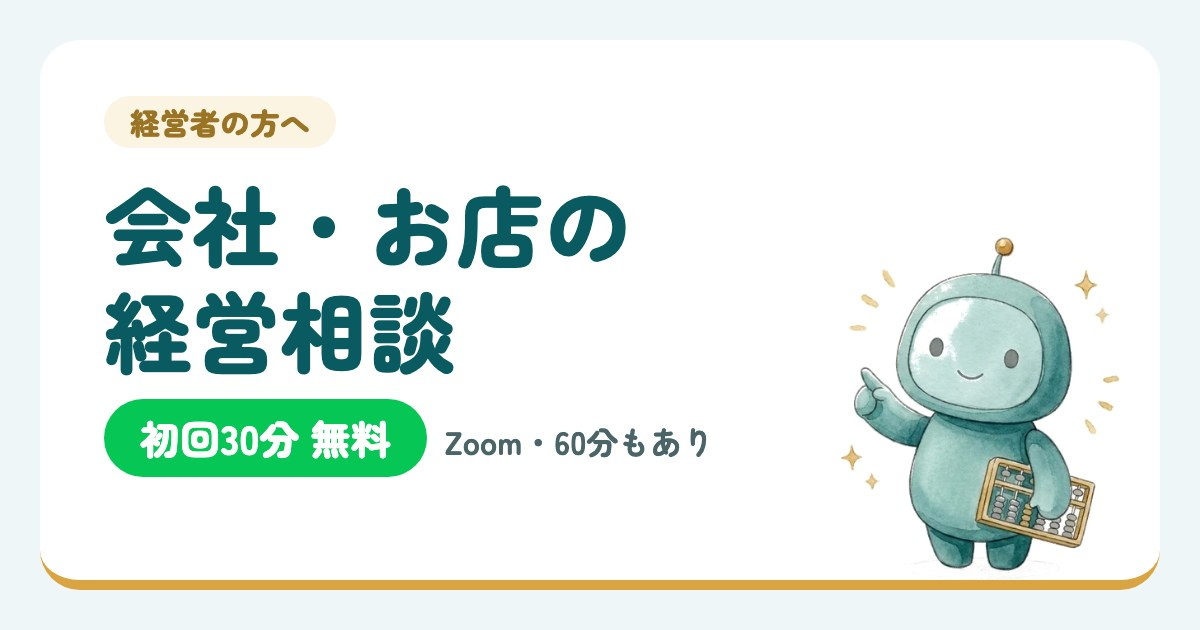
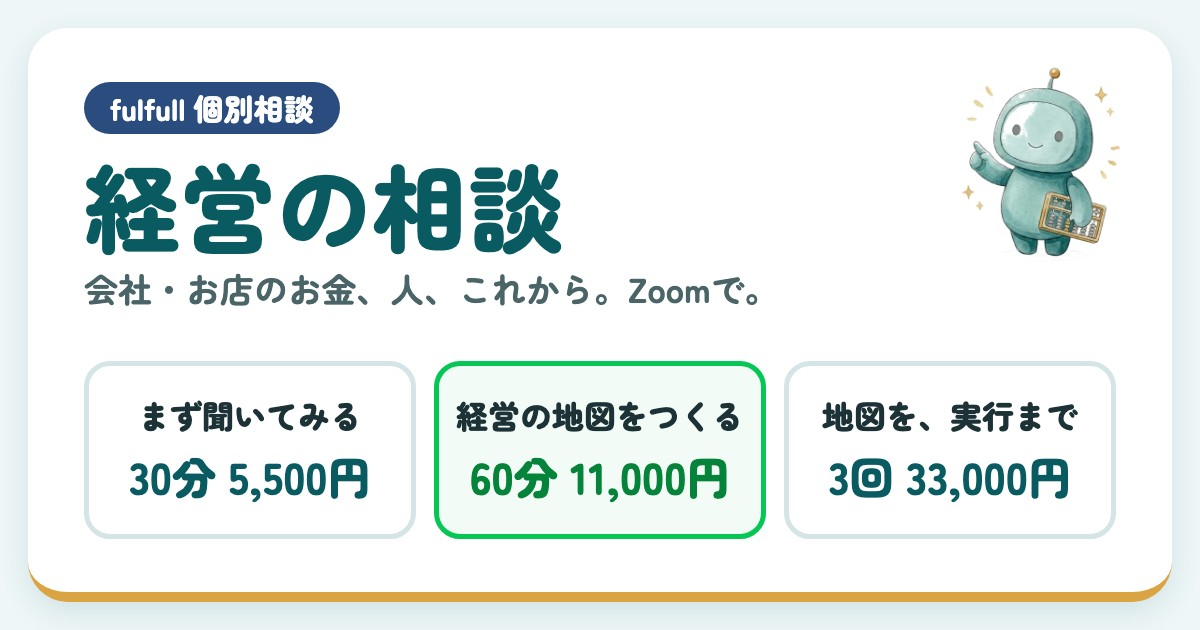
相談の入口を3つのプランに（まず聞いてみる・地図をつくる・実行まで）＋森川指名・中継OKリストに新リマインダ6本

Changed region(s): [[0.0308, 0.0905, 0.9867, 0.9651]]

diff --git a/soudan/index.html b/soudan/index.html
@@ -3,10 +3,10 @@
 <head>
 <meta charset="utf-8">
 <meta name="viewport" content="width=device-width,initial-scale=1">
-<title>森川に、お金の相談｜fulfull</title>
-<meta name="description" content="家計・老後・NISAの相談。初回30分は無料、2回目からは30分5,500円・60分11,000円。Zoomで、顔出しなしでも大丈夫です。">
-<meta property="og:title" content="森川に、お金の相談｜初回30分は無料">
-<meta property="og:description" content="家計・老後・NISA。Zoomで、顔出しなしでも大丈夫です。">
+<title>お金の相談｜fulfull</title>
+<meta name="description" content="家計・老後・NISAの相談。30分5,500円から。60分で「お金の地図」を1枚にまとめてお渡しします。Zoomで、顔出しなしでも大丈夫です。">
+<meta property="og:title" content="お金の相談｜3つのプランから選べます">
+<meta property="og:description" content="家計・老後・NISA。60分で「お金の地図」を1枚に。Zoomで、顔出しなしでも大丈夫です。">
 <meta property="og:image" content="https://mm738966m-boop.github.io/okane-benkyokai/soudan/ogp.jpg">
 <meta property="og:type" content="website">
 <meta name="twitter:card" content="summary_large_image">
@@ -45,52 +45,61 @@ body{margin:0;background:var(--soft);font-family:"Zen Maru Gothic","Hiragino Mar
 .note ul{margin:0;padding-left:1.2em}
 .foot{text-align:center;font-size:14px;color:var(--ink2);margin-top:26px}
 .foot a{color:var(--deep)}
+.plan .meta{display:inline-block;font-size:15px;font-weight:900;color:var(--deep);background:var(--soft);border-radius:8px;padding:0 10px;margin-left:8px;vertical-align:3px}
+.who-box{background:#fff;border:3px solid var(--line);border-radius:18px;padding:14px 16px;margin:6px 0 0;font-size:16px;line-height:1.75}
+.who-box h2{font-size:17px;font-weight:900;color:var(--deep);margin:0 0 4px}
+.who-box a{display:inline-block;margin-top:6px;font-weight:900;color:var(--deep)}
+.sub-link{text-align:center;font-size:15px;color:var(--ink2);margin:18px 0 0;line-height:1.7}
+.sub-link a{color:var(--deep);font-weight:700}
 </style>
 </head>
 <body>
 <main class="wrap">
   <header class="head">
-    <span class="who">fulfull・森川満章</span>
-    <h1>森川に、<br>お金の相談</h1>
-    <p>家計・老後・NISA。<br>今の状況を聞いて、順番を一緒に考えます。</p>
+    <span class="who">fulfull 個別相談</span>
+    <h1>お金の相談</h1>
+    <p>家計・老後・NISA。<br>今の状況を伺って、<br>順番を一緒に考えます。</p>
     <img src="../kiku/mascot.webp" alt="" width="96" height="96">
   </header>
-
-  <p class="lead">あてはまるものを、選んでください。</p>
-
-  <a class="plan first" data-ev="zsNG7V8HsuS7" href="https://utage-system.com/event/zsNG7V8HsuS7/register">
-    <span class="tag">はじめての方</span>
-    <div class="row"><span class="ttl">30分の相談</span><span class="price">無料</span></div>
-    <p class="desc">まずは今の状況と、気になっていることを聞かせてください。</p>
-    <span class="btn">無料の日程を見る</span>
-  </a>
-
+  <p class="lead">近いものを、選んでください。</p>
   <a class="plan" data-ev="WozrO52ma86D" href="https://utage-system.com/event/WozrO52ma86D/register">
-    <span class="tag">2回目からの方</span>
-    <div class="row"><span class="ttl">30分の相談</span><span class="price">5,500<small>円（税込）</small></span></div>
-    <p class="desc">前回の続きや、その後に出てきた疑問をまとめて。</p>
+    <span class="tag">気になることが1つあるとき</span>
+    <div class="ttl">まず聞いてみる</div>
+    <div class="row"><span class="meta">30分</span><span class="price">5,500<small>円（税込）</small></span></div>
+    <p class="desc">聞きたいことを1つ、決めておいてください。その場で、次の一歩までお話しします。</p>
     <span class="btn">30分の日程を見る</span>
   </a>
-
-  <a class="plan long" data-ev="q5R8Tv5K0hWC" href="https://utage-system.com/event/q5R8Tv5K0hWC/register">
-    <span class="tag">じっくり話したい方</span>
-    <div class="row"><span class="ttl">60分の相談</span><span class="price">11,000<small>円（税込）</small></span></div>
-    <p class="desc">家族のこと、住まい、老後まで。まとめて考えたいときに。</p>
+  <a class="plan first" data-ev="q5R8Tv5K0hWC" href="https://utage-system.com/event/q5R8Tv5K0hWC/register">
+    <span class="tag">おすすめ　わが家の全体を整理したいとき</span>
+    <div class="ttl">お金の地図をつくる</div>
+    <div class="row"><span class="meta">60分</span><span class="price">11,000<small>円（税込）</small></span></div>
+    <p class="desc">家計・毎月の固定費・老後・運用・住まいを伺って、「お金の地図」を1枚にまとめてお渡しします。相談の録画も、あとからお届けします。</p>
     <span class="btn">60分の日程を見る</span>
   </a>
-
+  <a class="plan long" data-ev="gQH3HObaf8Xw" href="https://utage-system.com/event/gQH3HObaf8Xw/register">
+    <span class="tag">決めたことを、実行まで進めたいとき</span>
+    <div class="ttl">地図を、実行まで</div>
+    <div class="row"><span class="meta">60分×3回</span><span class="price">33,000<small>円（税込）</small></span></div>
+    <p class="desc">1回目に地図をつくり、2回目に見直し、3回目に進み具合を確かめます（3か月）。ここでは1回目の日時を選びます。</p>
+    <span class="btn">1回目の日程を見る</span>
+  </a>
+  <div class="who-box">
+    <h2>担当について</h2>
+    <p style="margin:0">fulfullの相談員が担当します。<br>代表の森川を指名したいときは、60分 22,000円（税込）でお受けしています。</p>
+    <a data-ev="3gDg8OzgOXim" href="https://utage-system.com/event/3gDg8OzgOXim/register">森川を指名して予約する →</a>
+  </div>
   <div class="note">
     <ul>
       <li>相談はZoomです。<b>顔出しなし</b>でも大丈夫です。</li>
-      <li>無料の30分は、<b>おひとり1回</b>です。</li>
-      <li>有料の相談は、予約のときにカードでお支払いいただきます。</li>
+      <li>相談料は、予約のときにカードでお支払いいただきます。</li>
+      <li>日時の変更は、予約のあとに届くメールの「日時を変更する」ボタンからできます。</li>
     </ul>
   </div>
-
+  <p class="sub-link">「地図を、実行まで」をお申し込み済みの方は<br><a data-ev="BePbcljAcFHh" href="https://utage-system.com/event/BePbcljAcFHh/register">2回目・3回目の日時を選ぶ</a></p>
   <p class="foot">fulfull株式会社<br><a href="https://fulfull.jp/voice/">相談した方の声を読む</a></p>
 </main>
 <script>
-(function(){var q=new URLSearchParams(location.search).get('ref');if(!q)return;document.querySelectorAll('a.plan').forEach(function(a){a.href=a.href+'?ref='+encodeURIComponent(q)})})();
+(function(){var q=new URLSearchParams(location.search).get('ref');if(!q)return;document.querySelectorAll('a[data-ev]').forEach(function(a){a.href=a.href+'?ref='+encodeURIComponent(q)})})();
 </script>
 </body>
 </html>

diff --git a/soudan/keiei/index.html b/soudan/keiei/index.html
@@ -4,9 +4,9 @@
 <meta charset="utf-8">
 <meta name="viewport" content="width=device-width,initial-scale=1">
 <title>経営者の方へ 会社・お店の相談｜fulfull</title>
-<meta name="description" content="会社・お店の経営の相談。初回30分は無料、2回目からは30分5,500円・60分11,000円。Zoomで、顔出しなしでも大丈夫です。">
-<meta property="og:title" content="経営者の方へ 会社・お店の相談｜初回30分は無料">
-<meta property="og:description" content="会社・お店のお金、人、これからのこと。Zoomで、顔出しなしでも大丈夫です。">
+<meta name="description" content="会社・お店の経営の相談。30分5,500円から。60分で「経営の地図」を1枚にまとめてお渡しします。Zoomで、顔出しなしでも大丈夫です。">
+<meta property="og:title" content="会社・お店の経営相談｜3つのプランから選べます">
+<meta property="og:description" content="会社・お店のお金、人、これからのこと。60分で「経営の地図」を1枚に。Zoomで、顔出しなしでも大丈夫です。">
 <meta property="og:image" content="https://mm738966m-boop.github.io/okane-benkyokai/soudan/keiei/ogp.jpg">
 <meta property="og:type" content="website">
 <meta name="twitter:card" content="summary_large_image">
@@ -45,52 +45,60 @@ body{margin:0;background:var(--soft);font-family:"Zen Maru Gothic","Hiragino Mar
 .note ul{margin:0;padding-left:1.2em}
 .foot{text-align:center;font-size:14px;color:var(--ink2);margin-top:26px}
 .foot a{color:var(--deep)}
+.plan .meta{display:inline-block;font-size:15px;font-weight:900;color:var(--deep);background:var(--soft);border-radius:8px;padding:0 10px;margin-left:8px;vertical-align:3px}
+.who-box{background:#fff;border:3px solid var(--line);border-radius:18px;padding:14px 16px;margin:6px 0 0;font-size:16px;line-height:1.75}
+.who-box h2{font-size:17px;font-weight:900;color:var(--deep);margin:0 0 4px}
+.who-box a{display:inline-block;margin-top:6px;font-weight:900;color:var(--deep)}
+.sub-link{text-align:center;font-size:15px;color:var(--ink2);margin:18px 0 0;line-height:1.7}
+.sub-link a{color:var(--deep);font-weight:700}
 </style>
 </head>
 <body>
 <main class="wrap">
   <header class="head">
-    <span class="who">経営者の方へ・fulfull 森川満章</span>
+    <span class="who">経営者の方へ・fulfull</span>
     <h1>会社・お店の<br>経営相談</h1>
-    <p>お金、人、これからのこと。<br>今の状況を聞いて、打ち手の順番を一緒に考えます。</p>
+    <p>お金、人、これからのこと。<br>今の状況を伺って、<br>打ち手の順番を考えます。</p>
     <img src="../../kiku/mascot.webp" alt="" width="96" height="96">
   </header>
-
-  <p class="lead">あてはまるものを、選んでください。</p>
-
-  <a class="plan first" data-ev="KczRInaQse9W" href="https://utage-system.com/event/KczRInaQse9W/register">
-    <span class="tag">はじめての方</span>
-    <div class="row"><span class="ttl">30分の相談</span><span class="price">無料</span></div>
-    <p class="desc">まずは会社・お店の今と、気になっていることを聞かせてください。</p>
-    <span class="btn">無料の日程を見る</span>
-  </a>
-
+  <p class="lead">近いものを、選んでください。</p>
   <a class="plan" data-ev="BpH1F0KOyC6B" href="https://utage-system.com/event/BpH1F0KOyC6B/register">
-    <span class="tag">2回目からの方</span>
-    <div class="row"><span class="ttl">30分の相談</span><span class="price">5,500<small>円（税込）</small></span></div>
-    <p class="desc">前回の続きや、その後に出てきた疑問をまとめて。</p>
+    <span class="tag">気になることが1つあるとき</span>
+    <div class="ttl">まず聞いてみる</div>
+    <div class="row"><span class="meta">30分</span><span class="price">5,500<small>円（税込）</small></span></div>
+    <p class="desc">聞きたいことを1つ、決めておいてください。その場で、次の一歩までお話しします。</p>
     <span class="btn">30分の日程を見る</span>
   </a>
-
-  <a class="plan long" data-ev="ECqGDlhspOIq" href="https://utage-system.com/event/ECqGDlhspOIq/register">
-    <span class="tag">じっくり話したい方</span>
-    <div class="row"><span class="ttl">60分の相談</span><span class="price">11,000<small>円（税込）</small></span></div>
-    <p class="desc">事業の数字、人、ご自身のお金まで。まとめて考えたいときに。</p>
+  <a class="plan first" data-ev="ECqGDlhspOIq" href="https://utage-system.com/event/ECqGDlhspOIq/register">
+    <span class="tag">おすすめ　会社の全体を整理したいとき</span>
+    <div class="ttl">経営の地図をつくる</div>
+    <div class="row"><span class="meta">60分</span><span class="price">11,000<small>円（税込）</small></span></div>
+    <p class="desc">事業の数字・人・資金繰り・ご自身のお金まで伺って、「経営の地図」を1枚にまとめてお渡しします。相談の録画も、あとからお届けします。</p>
     <span class="btn">60分の日程を見る</span>
   </a>
-
+  <a class="plan long" data-ev="qVAYBzZFiPfm" href="https://utage-system.com/event/qVAYBzZFiPfm/register">
+    <span class="tag">決めたことを、実行まで進めたいとき</span>
+    <div class="ttl">地図を、実行まで</div>
+    <div class="row"><span class="meta">60分×3回</span><span class="price">33,000<small>円（税込）</small></span></div>
+    <p class="desc">1回目に地図をつくり、2回目に見直し、3回目に進み具合を確かめます（3か月）。ここでは1回目の日時を選びます。</p>
+    <span class="btn">1回目の日程を見る</span>
+  </a>
+  <div class="who-box">
+    <h2>担当について</h2>
+    <p style="margin:0">経営の相談は、代表の森川が担当します。</p>
+  </div>
   <div class="note">
     <ul>
       <li>相談はZoomです。<b>顔出しなし</b>でも大丈夫です。</li>
-      <li>無料の30分は、<b>おひとり1回</b>です。</li>
-      <li>有料の相談は、予約のときにカードでお支払いいただきます。</li>
+      <li>相談料は、予約のときにカードでお支払いいただきます。</li>
+      <li>日時の変更は、予約のあとに届くメールの「日時を変更する」ボタンからできます。</li>
     </ul>
   </div>
-
+  <p class="sub-link">「地図を、実行まで」をお申し込み済みの方は<br><a data-ev="iAZqWRhaeK90" href="https://utage-system.com/event/iAZqWRhaeK90/register">2回目・3回目の日時を選ぶ</a></p>
   <p class="foot">fulfull株式会社<br><a href="../">個人のお金の相談はこちら</a></p>
 </main>
 <script>
-(function(){var q=new URLSearchParams(location.search).get('ref');if(!q)return;document.querySelectorAll('a.plan').forEach(function(a){a.href=a.href+'?ref='+encodeURIComponent(q)})})();
+(function(){var q=new URLSearchParams(location.search).get('ref');if(!q)return;document.querySelectorAll('a[data-ev]').forEach(function(a){a.href=a.href+'?ref='+encodeURIComponent(q)})})();
 </script>
 </body>
 </html>

diff --git a/line/kobetsu/index.html b/line/kobetsu/index.html
@@ -27,7 +27,7 @@ img{width:132px;height:auto}h1{font-size:25px;font-weight:900;color:#0A5A62;line
 <script>
 (function(){
   // s＝予約枠ごとのシナリオ。先頭5つ＝予約専用LINE（お金30/経営30/お金60/経営60/お金60有料）、後ろ4つ＝旧・総合窓口（予約済みの人のため残す）。不明なときは先頭へ
-  var OK=['m650IPMZep03','z2ylyOPovfK1','YrGoPiDk0WpZ','hKBi8J7L5MDp','7WMQi5BGmW7x','CSbU9afsAD3q','T8QHE3kMy1fl','0WByOWUxnjzg','UWJLqbbWSLBM','KyDAw0XJWxhY','RVRioOOSwag4','bjOIShypif6W'];
+  var OK=['m650IPMZep03','z2ylyOPovfK1','YrGoPiDk0WpZ','hKBi8J7L5MDp','7WMQi5BGmW7x','CSbU9afsAD3q','T8QHE3kMy1fl','0WByOWUxnjzg','UWJLqbbWSLBM','KyDAw0XJWxhY','RVRioOOSwag4','bjOIShypif6W','XRR9htyBKUtJ','C6Xg2fM0ULlX','jRR3ZQ3Azw1B','sGMMVmO7zuQo','3YkQ5qZE8yR2','kgyjO87BdIT4'];
   var q=new URLSearchParams(location.search);
   var s=(q.get('s')||'').trim();if(OK.indexOf(s)<0)s=OK[0];
   var BASE='https://utage-system.com/line/link/DHmB7Kogg6pd/'+s;
